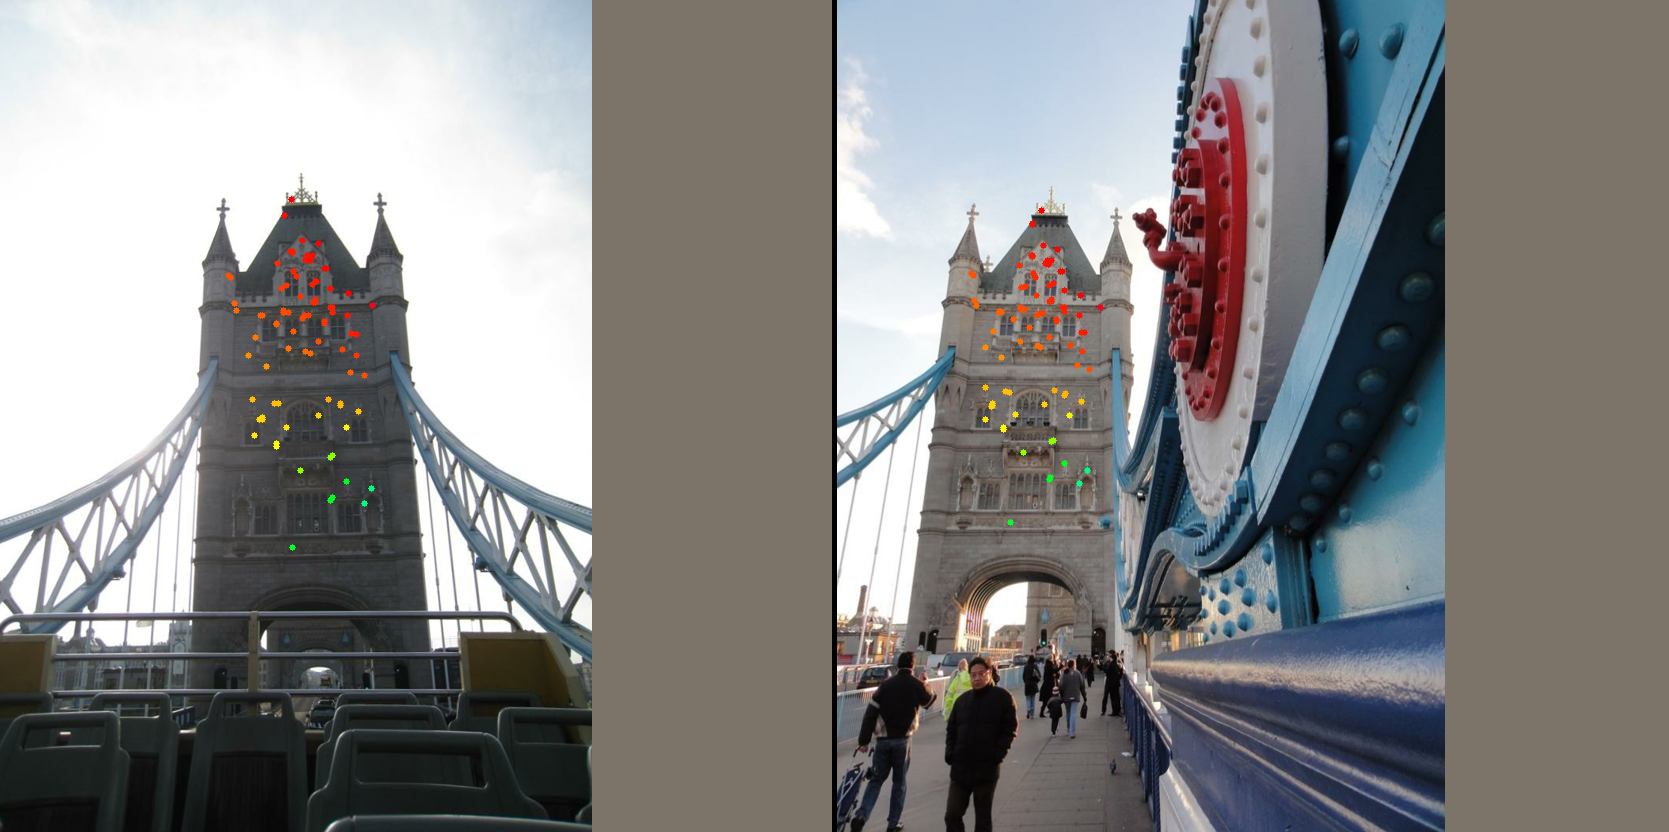
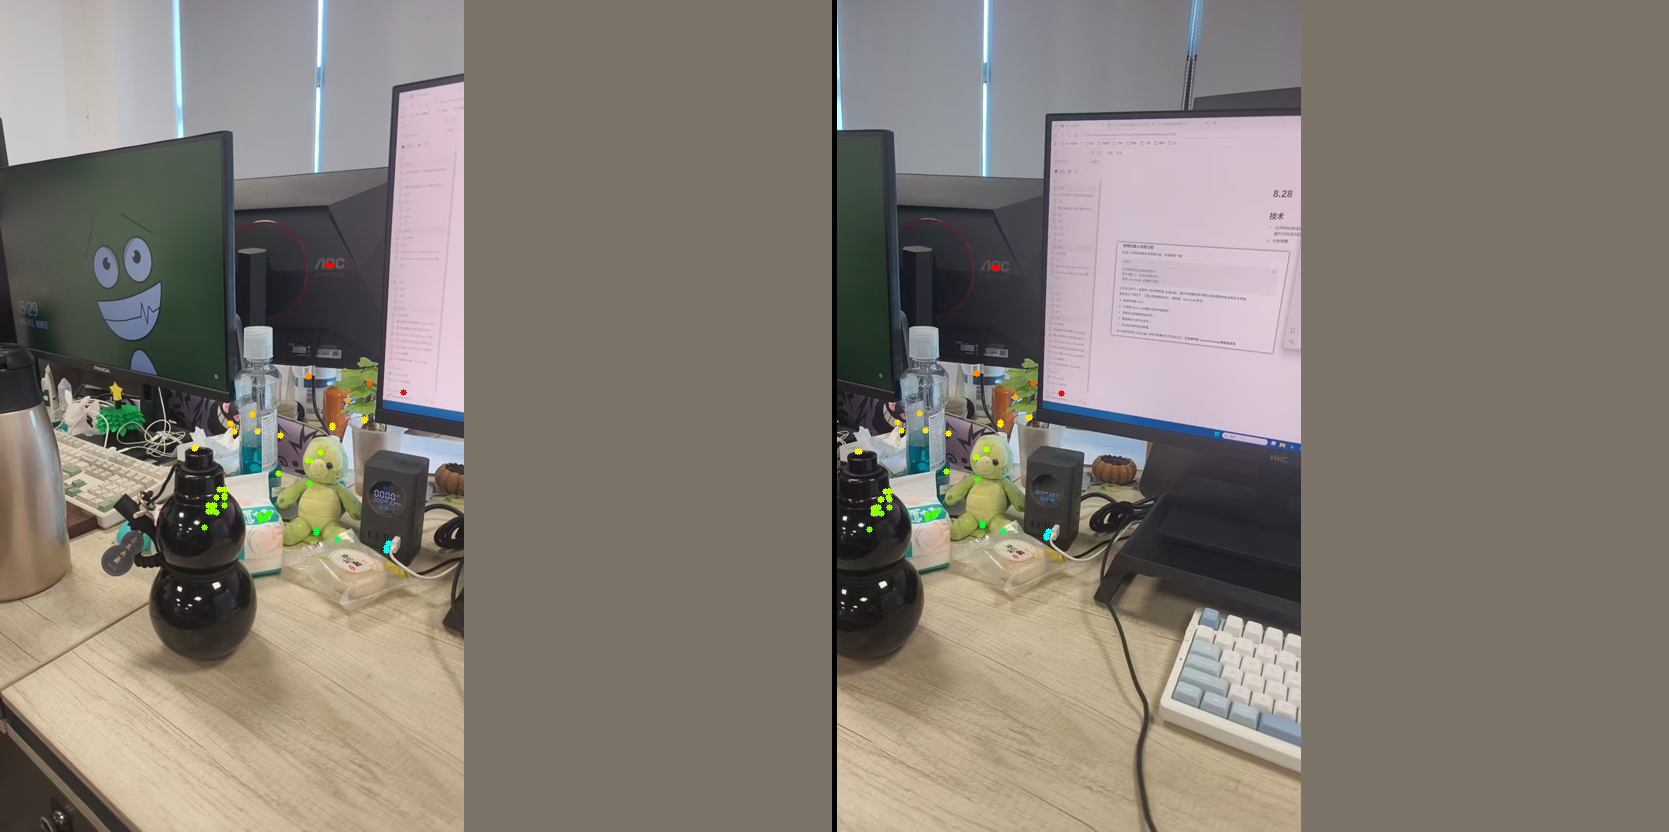
跑图/注释

diff --git a/demo/demo.py b/demo/demo.py
@@ -101,6 +101,6 @@ if __name__ == "__main__":
     logger.info("Finish Matching, Visualizing")
 
     # topk:可视化前100个匹配点, dpi为分辨率
-    make_confidence_figure(data, path=opt.output_dir + "viz1.png", dpi=300, topk=100)
-    make_evaluation_figure_wheel(data, path=opt.output_dir + "viz2.png", topk=100)
+    make_confidence_figure(data, path=opt.output_dir + "viz1.png", dpi=300, topk=50)
+    make_evaluation_figure_wheel(data, path=opt.output_dir + "viz2.png", topk=50)
     logger.info("Done")
